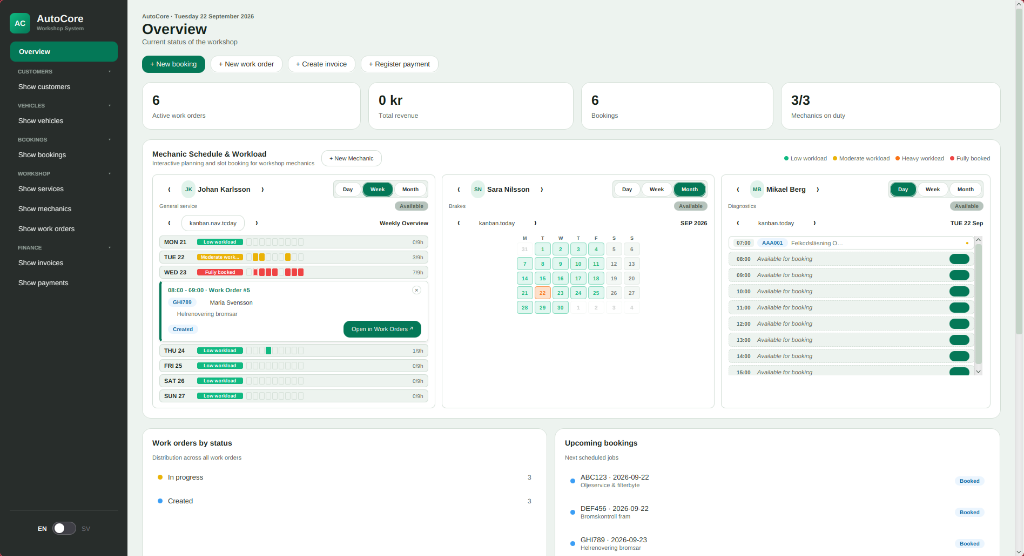
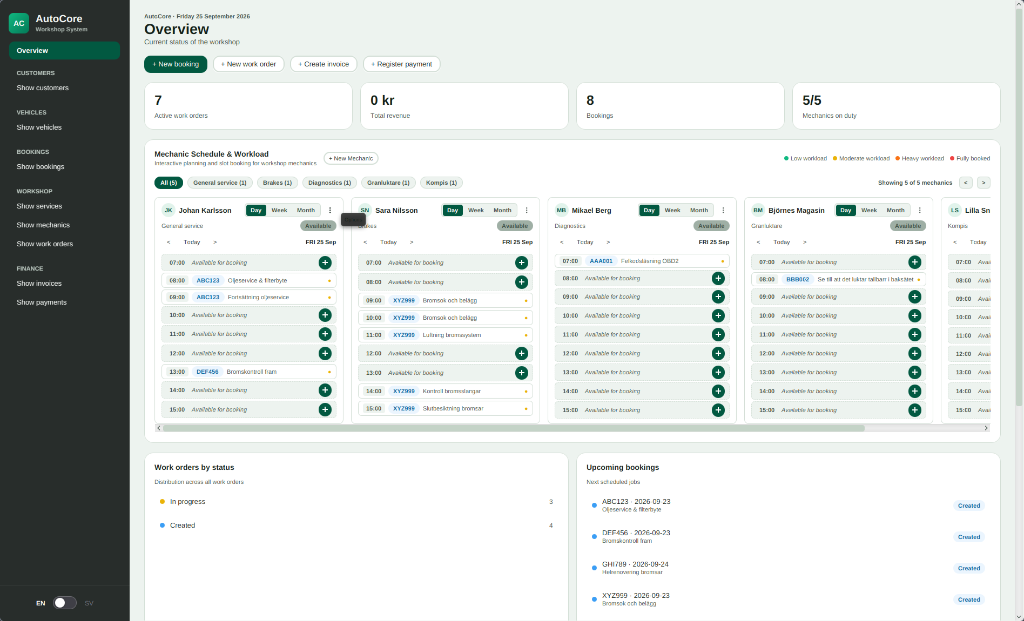
docs: uppdatera README med ny skärmbild, arkitektur, bokningsflöde och UX-validering

diff --git a/README.md b/README.md
@@ -8,18 +8,18 @@ Systemet hanterar den dagliga operativa verksamheten på en bilverkstad:
 - **Bokningar:** Tidsbokning för service och felsökning.
 - **Mekaniker & Tjänster:** Register över mekaniker, specialiteter och priskatalog för verkstadstjänster.
 - **Arbetsordrar:** Hantering av arbetsordrar, tilldelning av mekaniker och statusflöde.
-- **Fakturering & Rabattsystem:** Fakturering med stöd för VIP-rabatt och kampanjkoder.
 - **Betalningar:** Betalningshantering via kort, Swish och kontant.
 
 ## Skärmbilder
-JavaFX-gränssnittet (AutoCore, tema *Emerald*):
+JavaFX-gränssnittet (AutoCore Overview, tema *Emerald*):
 
 ![AutoCore JavaFX-gränssnitt](WigellAutoCore/docs/autocore-overview.png)
 
 ## Teknisk stack
 - Java (JDK 8, BellSoft Liberica Full med JavaFX)
-- JavaFX-gränssnitt (GUI)
+- JavaFX-gränssnitt (GUI) med modulära komponenter och WCAG 2.1 AAA designsystem
 - Konsolgränssnitt (CLI)
+- SQLite med JDBC (`sqlite-jdbc-3.53.4.0.jar`) för lokal persistens
 
 ## Kom igång & Synka med Develop
 
@@ -44,7 +44,7 @@ git pull origin develop
 
 * **Huvudapplikationen (AutoCore GUI):** Kör `./start.sh` i terminalen, eller `Main.java` i IntelliJ
 * **Total systemaudit (50 kontroller):** Kör `./check.sh` (eller `./audit.sh`) för en komplett rapport över enhetstester, kodkvalitet, säkerhet och WCAG 2.1 AAA.
-* **Snabba enhetstester:** Kör `./test.sh` (eller `com.wac.autocore.test.TestRunner`)
+* **Snabba enhetstester (57 tester):** Kör `./test.sh` (eller `com.wac.autocore.test.TestRunner`)
 * **Konsolversionen (CLI):** Kör `./start.sh ConsoleApp` i terminalen, eller `ConsoleApp.java` i IntelliJ
 * **Modulvisa testappar:**
   - **Kunder:** `com.wac.autocore.gui.customers.TestCustomer`
@@ -77,43 +77,62 @@ WigellAutoCore/autocore/
 │   ├── ConsoleApp.java               # Textbaserat CLI-gränssnitt
 │   └── com/wac/autocore/
 │       ├── data/
-│       │   └── Database.java         # Datalager & seed data (förberett för SQLite)
+│       │   └── Database.java         # Datalager & seed data (SQLite-persistens)
 │       ├── model/                    # Domänmodeller (Customer, Vehicle, Booking, etc.)
 │       ├── service/                  # Servicelager & Fasad
 │       │   ├── GarageSystem.java     # Huvudfasad (Facade Pattern) mot delsystem
 │       │   ├── CustomerService.java  # Kundhantering & validering
 │       │   ├── VehicleService.java   # Fordonsregistrering & ägarkoppling
-│       │   ├── BookingService.java   # Tidsbokning & validering
+│       │   ├── BookingService.java   # Tidsbokning & validering (strikt BOOKED)
 │       │   ├── WorkOrderService.java # Arbetsorderns livscykel (CREATED -> IN_PROGRESS -> COMPLETED)
 │       │   ├── BillingService.java   # Fakturaberäkning, rabatter & momshantering
 │       │   ├── PaymentService.java   # Betalningstransaktioner (Kort, Swish, Kontant)
-│       │   └── MechanicSchedule.java # Schemaläggning & beläggningsberäkning (timme-för-timme)
+│       │   └── MechanicSchedule.java # Schemaläggning, krockanalys & beläggningsberäkning
 │       ├── ui/                       # Presentationslager (JavaFX GUI)
 │       │   ├── AutoCoreApp.java      # Fönsterram, layout & sidnavigation
 │       │   ├── ActionDialogs.java    # Lättviktig fasad (Facade) för modala formulärdialoger
 │       │   ├── CustomerDialogs.java  # Kunddialoger (skapa, redigera, ta bort)
-│       │   ├── VehicleDialogs.java   # Fordonsdialoger (skapa, redigera, ta bort)
-│       │   ├── BookingDialogs.java   # Bokningsdialoger (tjänst, mekaniker, arbetspass)
+│       │   ├── VehicleDialogs.java   # Fordonsdialoger med detaljerad fältvalidering
+│       │   ├── BookingDialogs.java   # Bokningsdialoger (modulär dialogsamordnare)
 │       │   ├── WorkOrderDialogs.java # Arbetsorderdialoger med tjänstekoppling
 │       │   ├── BillingDialogs.java   # Faktura- och betalningsdialoger
 │       │   ├── MechanicDialogs.java  # Mekanikerdialoger (specialisering, tillgänglighet)
-│       │   ├── ServiceItemDialogs.java # Verkstadstjänster & prissättning
+│       │   ├── ServiceItemDialogs.java # Verkstadstjänster & prissättning (> 0 validering)
 │       │   ├── SlotDetailsDialog.java # Detaljdialoger för schema- och arbetsordrar
-│       │   ├── components/           # Återanvändbara UI-komponenter & Kanban-kort
+│       │   ├── components/           # Återanvändbara UI-komponenter & formulärpaneler
+│       │   │   ├── BookingFormPane.java   # Komposit formulär för tidsbokning
+│       │   │   ├── TimeSlotCell.java      # Cell med färgkodad ledig/upptagen-indikator
+│       │   │   ├── MechanicKanbanCard.java# Interaktivt Kanban-kort för mekanikerscheman
+│       │   │   ├── TableFactory.java      # Typad tabellfabrik med flerkolumnsfiltrering
+│       │   │   └── UiComponents.java      # Knappar, KPI-kort och standardiserade sidhuvuden
 │       │   ├── i18n/                 # Flerspråksmotor (I18n.java) med realtidsväxling
 │       │   ├── navigation/           # Sidomeny (SidebarView) & Sidrouter (PageRouter)
-│       │   ├── util/                 # Formatering (UiFormatters), sök och uppslag
+│       │   ├── util/                 # Formatering (UiFormatters), BookingAvailability, sök och uppslag
 │       │   └── views/                # Översikt, Dashboard och entitetsvyer
-│       └── test/                     # Automatiserad testsvit (54 tester)
+│       └── test/                     # Automatiserad testsvit (57 tester)
 └── resources/
     └── com/wac/autocore/
-        ├── i18n/                     # Dictionaries (sv.json, en.json) med 100% paritet
+        ├── i18n/                     # Dictionaries (sv.json, en.json) med 100% paritet (358 nycklar)
         └── theme/                    # CSS-designsystem & officiellt tema (Emerald)
 ```
 
+### Bokningsflöde & Frikoppling från Arbetsorder
+* **Strikt separation mellan Bokning och Arbetsorder:** När en kund bokar en tid registreras bokningen renodlat som `BOOKED`. Systemet skapar inte längre en arbetsorder i förtid; arbetsordern startas först när fordonet faktiskt lämnas in på verkstaden via verkstadens Kanban-vy eller arbetsorderdialogen.
+* **Visuell tidsvalidering i realtid:** I bokningsdialogen visualiseras mekanikerns tillgänglighet för varje timme via `TimeSlotCell`:
+  - 🟢 **Grön punkt:** Tiden är ledig för bokning.
+  - 🔴 **Röd punkt:** Tiden är redan upptagen av en annan bokning eller pågående arbetsorder.
+* **Skydd mot dubbelbokningar:** `BookingAvailability` räknar automatiskt samman tjänstens tidsåtgång och förhindrar överlappande bokningar över flera timmar.
+* **Avbokningssynkronisering:** När en bokning avbokas eller raderas frigörs mekanikerns tidsluckor omedelbart i schemat via `MechanicSchedule.cancelSlotForBooking`.
+
+### Formulärvalidering & Förbättrad UX
+* **Tydlig fältvalidering vid fordonsregistrering:** Om obligatoriska fält saknas meddelas användaren exakt vilket eller vilka fält som behöver fyllas i (registreringsnummer, märke, modell eller årsmodell), istället för svårbegripliga generiska nummerfel.
+* **Rimlighetskontroll för årsmodell:** Årsmodeller valideras mot intervallet 1900–2100.
+* **Distinkta platshållartexter:** Platshållare/prompttexter är formaterade som tydliga exempel (t.ex. `"T.ex. ABC123"`, `"T.ex. Volvo"`, `"T.ex. V60"`, `"T.ex. 2022"`) och har dämpad kontrastfärg (`-wac-muted`) för att förhindra förväxling med ifyllda fält.
+* **Tjänstevalidering (SCRUM-104):** Både pris och beräknad tidsåtgång för verkstadstjänster valideras strikt och måste vara större än 0.
+
 ### Flerspråksstöd i realtid (SV / EN)
-* **Realtidsväxling:** Växla sömlöst mellan svenska och engelska med knappen i sidomenyn utan att behöva starta om applikationen.
-* **100 % Nyckelparitet:** Både `sv.json` och `en.json` innehåller samtliga 396 språknycklar för menyer, dialoger, tabeller, statusar och felmeddelanden.
+* **Realtidsväxling:** Växla sömlöst mellan svenska och engelska med switch-knappen i sidomenyn utan att behöva starta om applikationen.
+* **100 % Nyckelparitet:** Både `sv.json` och `en.json` innehåller samtliga 358 språknycklar för menyer, dialoger, tabeller, statusar, valideringar och felmeddelanden.
 * **Dynamisk formatering:** Datum formateras automatiskt på rätt språk (t.ex. *"Måndag 23 september 2026"* vs *"Monday 23 September 2026"*) och statusord mappas via `UiFormatters`.
 
 ### Ren Sidomenynavigering (SidebarView)
@@ -124,7 +143,7 @@ WigellAutoCore/autocore/
 Översiktspanelen (`OverviewView`) innehåller en fullt interaktiv, realtidsstyrd Kanban-tavla för verkstadens mekaniker:
 * **Trelägesvyer (Dag, Vecka, Månad):**
   - **Dagsvy (07:00–16:00):** Visar 9 distinkta timboxar. Lediga tider har en klickbar SVG-plusknapp (`+`) som öppnar bokningsdialogen direkt förvald på mekanikern och vald timme.
-  - **Inline Drawer:** Ett klick på en bokad timme fäller mjukt ut en inline detaljlåda under slotten med fordonets registreringsnummer, kundnamn och fullständig arbetsorderbeskrivning.
+  - **Inline Drawer:** Ett klick på en bokad timme fäller mjukt ut en inline detaljlåda under slotten med fordonets registreringsnummer, kundnamn och fullständig arbetsorderbeskrivning samt snabbval för att skapa arbetsorder.
   - **Veckovy & Beläggningsgrad:** 7-dagarsvy med färgkodad 4-stegs belastningsprogression:
     - 🟢 **Ledig (0–2 h):** Grön belastningsindikator.
     - 🟡 **Måttlig (3–4 h):** Gul belastningsindikator.
@@ -138,21 +157,21 @@ WigellAutoCore/autocore/
     - **Redigera mekaniker:** Uppdatera namn, specialisering och tillgänglighet via modal dialog.
     - **Ta bort mekaniker:** Raderar mekanikern ur systemet, skyddad av en säkerhetsspärr i `GarageSystem` som förhindrar borttagning om mekanikern har pågående aktiva arbetsordrar.
 * **Realtidssynkronisering mot SQLite-databasen:**
-  - `MechanicSchedule.syncFromDatabase()` läser automatiskt in aktiva arbetsordrar från SQLite (`work_orders`, `bookings`, `vehicles`, `customers`) och mappar in dem i lediga timluckor. Nya arbetsordrar syns direkt utan omstart.
+  - `MechanicSchedule.syncFromDatabase()` läser automatiskt in aktiva arbetsordrar och bokningar från SQLite (`work_orders`, `bookings`, `vehicles`, `customers`) och mappar in dem i lediga timluckor. Nya bokningar syns direkt utan omstart.
 * **Filtrering & Horisontell Navigering:**
-  - Snabbfilter för mekanikernas specialiseringar (t.ex. *Motor*, *Bromsar*, *El & Diagnostik*) och horisontella rullningskontroller (`<`, `>`) som möjliggör smidig hantering av obegränsat antal mekaniker utan layout-hopp.
+  - Snabbfilter för mekanikernas specialiseringar (t.ex. *All*, *Motor*, *Bromsar*, *El & Diagnostik*) och horisontella rullningskontroller (`<`, `>`) som möjliggör smidig hantering av obegränsat antal mekaniker utan layout-hopp.
 * **Plattforms- & Tillgänglighetsoptimerad:**
   - Vektorbaserade `SVGPath`-ikoner, standardiserade Unicode-pilar (`<`, `>`, `\u25BC`) och justerad typografi förhindrar avhuggna symboler och överlappande text på macOS. Fullt förenlig med WCAG 2.1 AAA.
 
 ### Automatiserade tester & Audit (`com.wac.autocore.test`)
-Systemet skyddas av **54 automatiserade tester och kvalitetskontroller** samt automatisk GitHub Actions CI:
+Systemet skyddas av **57 automatiserade tester och 50 systemkontroller** samt automatisk GitHub Actions CI:
 * **`GlobalSearchTest`**: Verifierar granulär sökning över kunder, fordon, mekaniker, ordrar, skiftlägesokänslighet och prefix.
 * **`TableFactoryTest`**: Verifierar flerkolumnssökning och regressionsskyddar mot indexbuggar vid filtrering.
 * **`UiFormattersTest`**: Valuta (long/double), trunkering, statusöversättning, datum och badge-CSS-klasser.
-* **`EntityLookupTest`**: Uppslagning mot `GarageSystem` för kundnamn, fordonsreg, mekaniker och tjänster.
+* **`EntityLookupTest`**: Uppslagning mot `GarageSystem` för kundnamn, fordonsreg, mekaniker, tjänster och kvalificeringskontroll.
 * **`OverviewMetricsTest`**: Verifiering av KPI-mätetal (aktiva ordrar, omsättning, tillgänglighet).
 * **`I18nTest`**: Språkväxling i realtid, parameteriserade strängar, fallback och komplett paritet mellan språkfiler.
-* **`MechanicScheduleTest`**: Dagslots, veckobelastning, färgprogression, skydd mot dubbelbokningar och `getNextBookingDate`.
+* **`MechanicScheduleTest`**: Dagslots, veckobelastning, färgprogression, krockkontroller, avbokning och `getNextBookingDate`.
 * **`PersistenceRestartTest`**: Säkerställer att sparade kunder och bokningar bevaras i SQLite och överlever app-omstart utan dubblering.
 * **`CodeQualityTest`**: 100% språkparitet, temaintegritet, frikoppling av servicelager och komplexitetsgränser (< 1200 rader).
 * **`SecurityAuditTest`**: Skanning mot hårdkodade hemligheter, SQL-injektionsmönster, processkörning och PII-loggning.
@@ -160,7 +179,7 @@ Systemet skyddas av **54 automatiserade tester och kvalitetskontroller** samt au
 * **GitHub Actions CI (`.github/workflows/ci.yml`)**: Körs automatiskt vid varje push/PR med Liberica JDK 8 (med JavaFX) och virtuell framebuffer (`xvfb-run`).
 * **Kör tester:**
   - `./check.sh` för komplett grafisk auditrapport (Alla 4 moduler, 50 kontroller).
-  - `./test.sh` för snabb enhetstestkörning (54 tester).
+  - `./test.sh` för snabb enhetstestkörning (57 tester).
 
 ### UI & Tillgänglighet (WCAG 2.1 AAA)
 * **Zebramönstrade tabeller:** Varannan rad har dämpad kontrastfärg för snabbare och behagligare läsning.
@@ -175,3 +194,4 @@ Projektets visuella riktlinjer, komponentbibliotek och färgteman finns sammanst
 
 ## Utvecklingsteam
 Grupp C: Alex, Lucas, Daniel, Vivianne
+

diff --git a/WigellAutoCore/README_JAVAFX.md b/WigellAutoCore/README_JAVAFX.md
@@ -34,6 +34,8 @@ Arkitekturen följer Single Responsibility Principle och är indelad i följande
 
 ### Komponenter (`components/`)
 * **`TopBar` (inbyggd i `AutoCoreApp.java`)**: Toppmeny med varumärke (i toppläge), sökfält, layout-toggle (`Sidebar ◧` / `Top bar ⎕`) och tema-ComboBox. Ligger direkt i applikationskoden så att den enkelt kan anpassas. Stöder sömlös växling mellan fullbreddstoppmeny och sidomeny utan att tappa aktiv sida. Inkluderar dynamisk styling för mörka och ljusa teman samt popup-scensynkronisering via Java-reflektion så att popup-fönstret ärver appens tema och `.root`-klass utan CSS-varningar.
+* **`BookingFormPane.java`**: Komposit JavaFX-formulärpanel för tidsbokning med dynamisk validering, koppling mot verkstadens tjänster, mekanikertilldelning och beräkning av tidsåtgång.
+* **`TimeSlotCell.java`**: Specialiserad ComboBox-cell för tidsval som i realtid visualiserar om mekanikern är ledig (🟢) eller upptagen (🔴).
 * **`MechanicKanbanCard.java`**: Interaktivt Kanban-kort för mekanikerscheman. Implementerar dagsvy (07:00–16:00) med klickbara SVG-plusknappar för direktbokning, utfällbar *inline drawer* för bokningsinformation, veckovy med 4-stegs färgprogression (grön, gul, orange, röd), månadsvy för tillgänglighet, snabbnavigering till nästa bokningsdag (`📅 Nästa bokning: ... →`), samt en kontextuell kebabmeny (`⋮`) för redigering eller säker borttagning av mekaniker.
 * **`TableFactory.java`**: Typad fabrik för att skapa `TableView` kopplad till `FilteredList`. Innehåller hjälpare för standardtextkolumner (`col`), statusbadge-kolumner (`badgeCol`) och flerkolumnssökning (`applySearch`). Sökningen hämtar celldata direkt från radobjektet (`col.getCellData(row)`), vilket förhindrar `IndexOutOfBoundsException` när filtrerade vyer söks.
 * **`UiComponents.java`**: Återanvändbara UI-element: primära och sekundära knappar, KPI-kort, informationspaneler och standardiserade sidhuvuden (`pageHead`, `buildEntityPage`).
@@ -52,6 +54,7 @@ Arkitekturen följer Single Responsibility Principle och är indelad i följande
 
 ### Ren logik & Presentationshjälpare (`util/`)
 * **`UiFormatters.java`**: Ren formateringslogik frikopplad från JavaFX-fönsterkontexten. Formaterar valuta (`formatMoney`), datum (`todayFormatted`, `formatDate`), trunkerar långa texter och mappar statusord till CSS-badgeklasser.
+* **`BookingAvailability.java`**: Ren beräkningsmodul för tidsslottar och kollisionskontroll för bokningar mot mekanikerns schema.
 * **`EntityLookup.java`**: Slår upp relaterade namn (kund, fordon, mekaniker, tjänster) baserat på ID mot `GarageSystem`.
 
 ---
@@ -89,16 +92,17 @@ Eftersom all presentations-, beräknings-, sök- och uppslagslogik är isolerad 
 * **`EntityLookupTest.java`**:
   - Testar ID-uppslag mot `GarageSystem` för kunder, fordon, mekaniker och tjänster.
   - Verifierar korrekta fallbacks för okända ID:n.
+  - Verifierar mekanikers specialisering och kvalificering för tjänster.
 * **`OverviewMetricsTest.java`**:
   - Verifierar KPI-beräkningar för aktiva arbetsordrar, total omsättning från lyckade betalningar och mekanikertillgänglighet.
 * **`MechanicScheduleTest.java`**:
-  - Verifierar 9 dagslots (07:00–16:00), dubbelbokningsskydd, veckoöversikt, månadstillgänglighet, färgprogression (grön -> gul -> orange -> röd) samt `getNextBookingDate`.
+  - Verifierar 9 dagslots (07:00–16:00), dubbelbokningsskydd, tidsslotstillgänglighet, avbokningssynkronisering, veckoöversikt, månadstillgänglighet, färgprogression (grön -> gul -> orange -> röd) samt `getNextBookingDate`.
 * **`I18nTest.java`**:
   - Verifierar språkväxling i realtid, parameteriserade meddelanden, fallback och full paritet mellan `sv.json` och `en.json`.
 * **`CodeQualityTest.java`, `SecurityAuditTest.java`, `WcagAccessibilityTest.java`**:
   - Verifierar frikoppling av servicelagret, SQL-injektionsskydd, inga hårdkodade hemligheter och WCAG 2.1 AAA-kontrast och fokusringar.
 * **`TestRunner.java`**:
-  - Egenutvecklad, fristående test-runner med färgkodad utskrift och tydliga felrapporter. Totalt 51 automatiserade tester.
+  - Egenutvecklad, fristående test-runner med färgkodad utskrift och tydliga felrapporter. Totalt 57 automatiserade tester.
 
 Kör testerna när som helst med:
 ```bash
